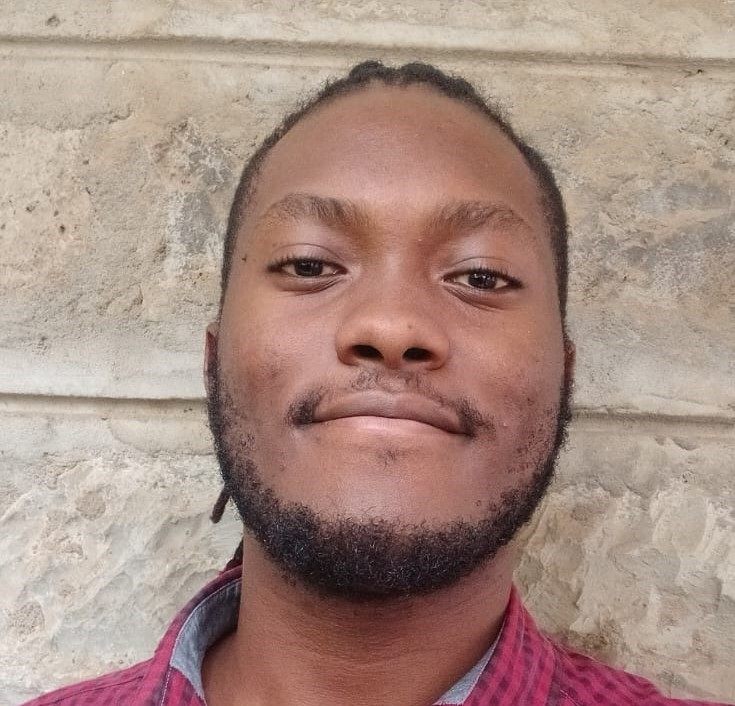
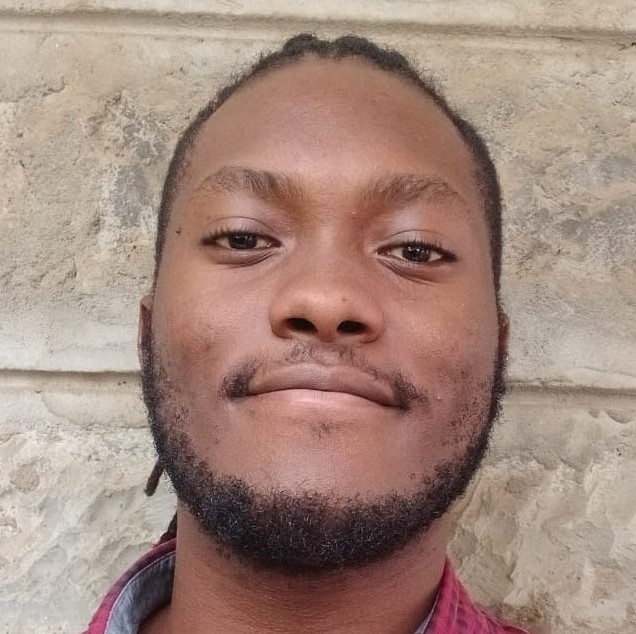
updated testimonials

diff --git a/src/components/home/TestimonialsSection.jsx b/src/components/home/TestimonialsSection.jsx
@@ -5,7 +5,7 @@ import { Star } from "lucide-react"
 import tonyAvatar from "../../assets/avatars/tony.jpg"
 import liamAvatar from "../../assets/avatars/liam.jpg"
 // import pamAvatar from "../../assets/avatars/pam.jpg"
-// import eduAvatar from "../../assets/avatars/edu.jpg"
+import catieAvatar from "../../assets/avatars/catie.jpg"
 import "../../styles/testimonials.css"
 import "../../styles/cards.css"
 
@@ -26,13 +26,13 @@ export default function TestimonialsSection({ delay = 0 }) {
       location: "Mombasa, Kenya. 28, Aug 2025",
       quote: "I highly recommend Nyenzo as an exceptional software engineer and data scientist. Throughout our work together, he has consistently demonstrated deep technical expertise in web development and machine learning, coupled with an unwavering commitment to delivering high-quality results.",
       avatar: liamAvatar
-    }
-    // {
-    //   name: "Edu Mwangi",
-    //   location: "Kisumu, Kenya. 15, Mar 2024",
-    //   quote: "Sid's AI integration skills are game-changing. He helped our team implement machine learning solutions that revolutionized our workflow and productivity.",
-    //   avatar: eduAvatar
-    // },
+    },
+    {
+      name: "Catherine Matu",
+      location: "Nairobi, Kenya. 30, Aug 2025",
+      quote: "I had the pleasure of working with Nyenzo on several projects, and I was consistently impressed by his technical acumen and reliability. His skills in React, JavaScript, and debugging are top-notch—he approaches challenges with precision and always delivers high-quality work on time.",
+      avatar: catieAvatar
+    },
     // {
     //   name: "Pam Rodriguez",
     //   location: "Nakuru, Kenya. 8, Apr 2024",
